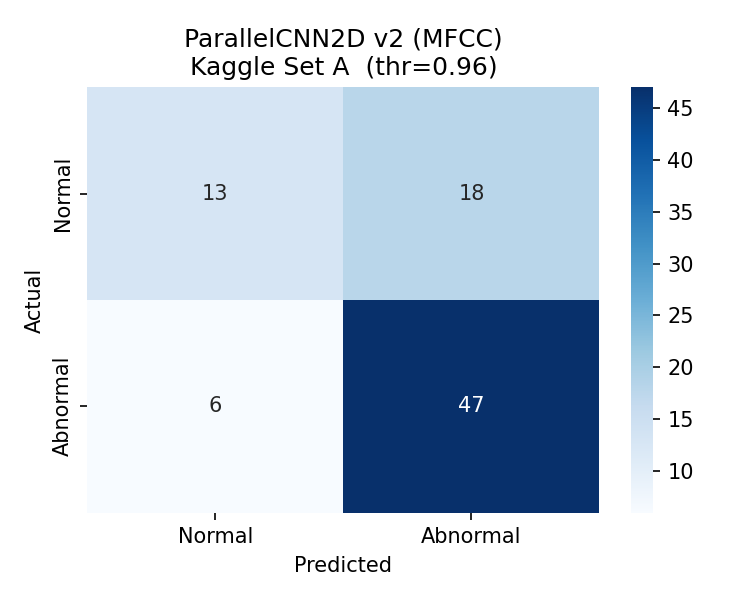
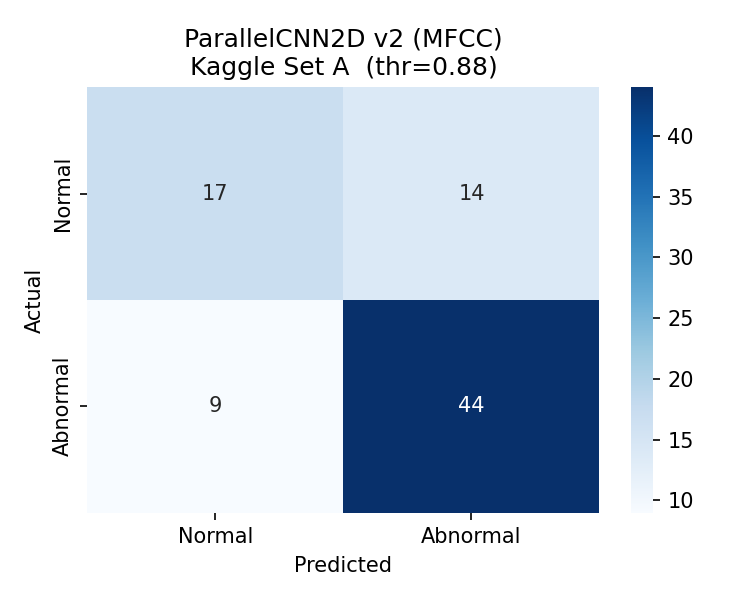
updated cross

diff --git a/kaggle/eval_seta.py b/kaggle/eval_seta.py
@@ -53,11 +53,11 @@ SEGMENT_SEC = 2
 # ESTIMATE_STATS=True  -> Set A-аас тооцно  (approximation)
 # ESTIMATE_STATS=False -> PhysioNet train stats ашиглана (ideal)
 # ==========================================
-ESTIMATE_STATS = True
-MEL_MEAN   = 0.0
-MEL_STD    = 1.0
-MFCC_MEAN  = 0.0
-MFCC_STD   = 1.0
+ESTIMATE_STATS = False
+MEL_MEAN   = -60.82565707752085
+MEL_STD    = 21.997393560406888
+MFCC_MEAN  = -7.615565058503579
+MFCC_STD   = 83.982503151537
 
 device = torch.device("cuda" if torch.cuda.is_available() else "cpu")
 print(f"Device: {device}")
@@ -497,19 +497,18 @@ if __name__ == "__main__":
 
     # ResNet: invert=True (domain shift урвуу таамаглал засна)
     r1 = evaluate_model(
-        df, resnet_model, extract_mel,
-        mel_mean, mel_std,
-        "ResNet2D + SE Attention (Mel)",
-        invert=True
-    )
+    df, resnet_model, extract_mel,
+    0.2272, 2.7950,          # Set A estimate
+    "ResNet2D + SE Attention (Mel)",
+    invert=True
+)
 
-    # ParallelCNN: invert=False
     r2 = evaluate_model(
-        df, pcnn_model, extract_mfcc,
-        mfcc_mean, mfcc_std,
-        "ParallelCNN2D v2 (MFCC)",
-        invert=True
-    )
+    df, pcnn_model, extract_mfcc,
+    -7.616, 83.983,          # PhysioNet stats
+    "ParallelCNN2D v2 (MFCC)",
+    invert=True
+)
 
     results = [r1, r2]
 
